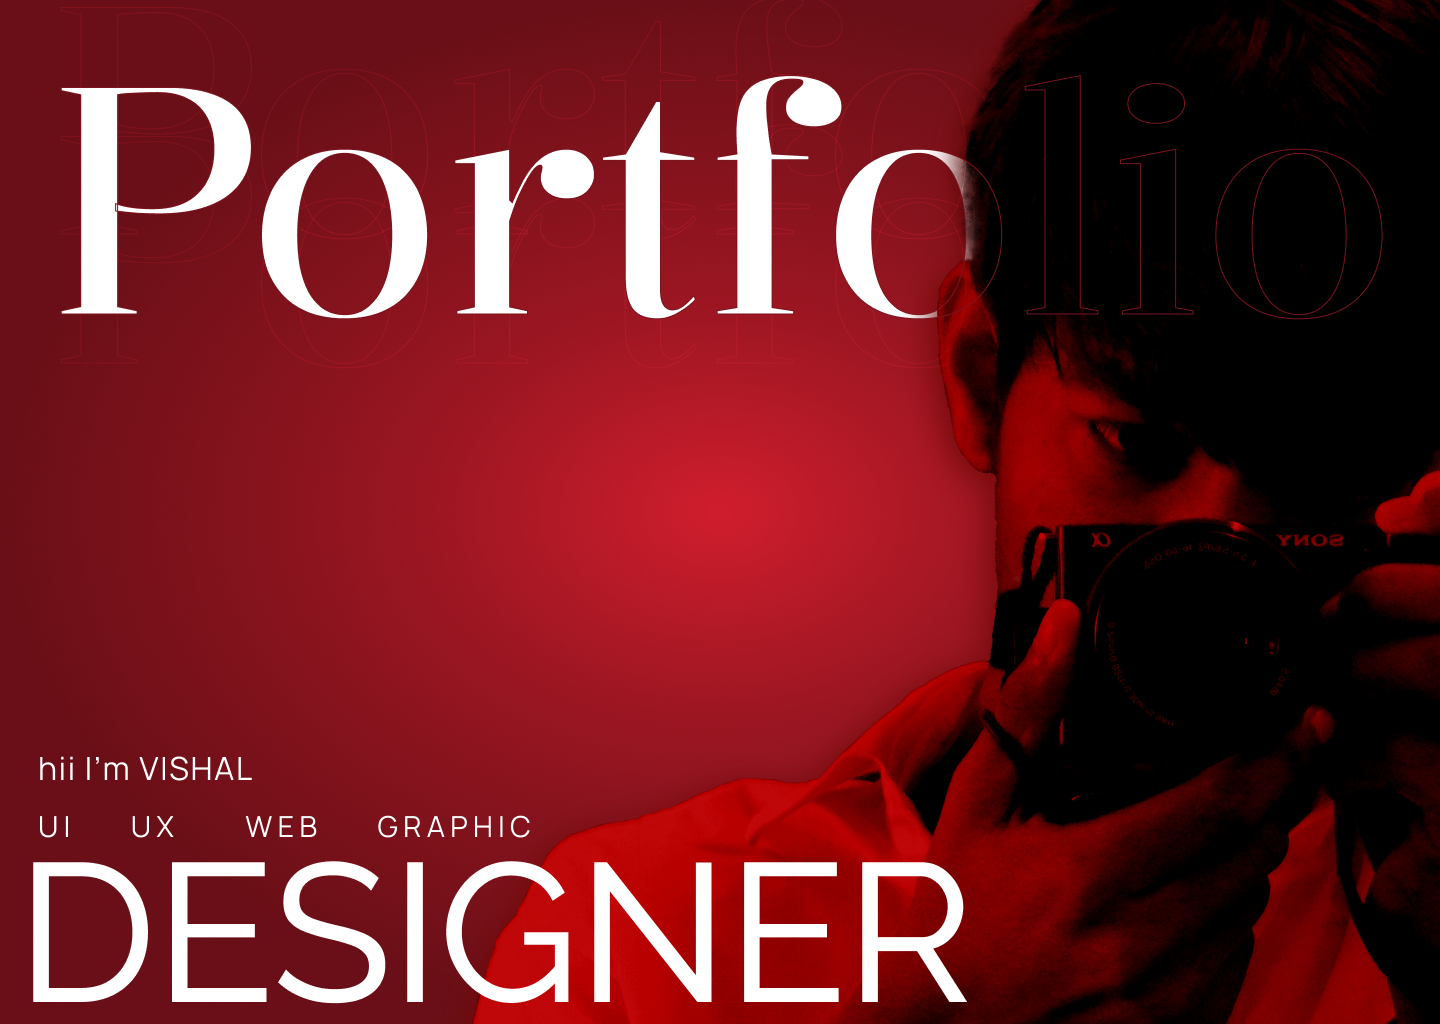
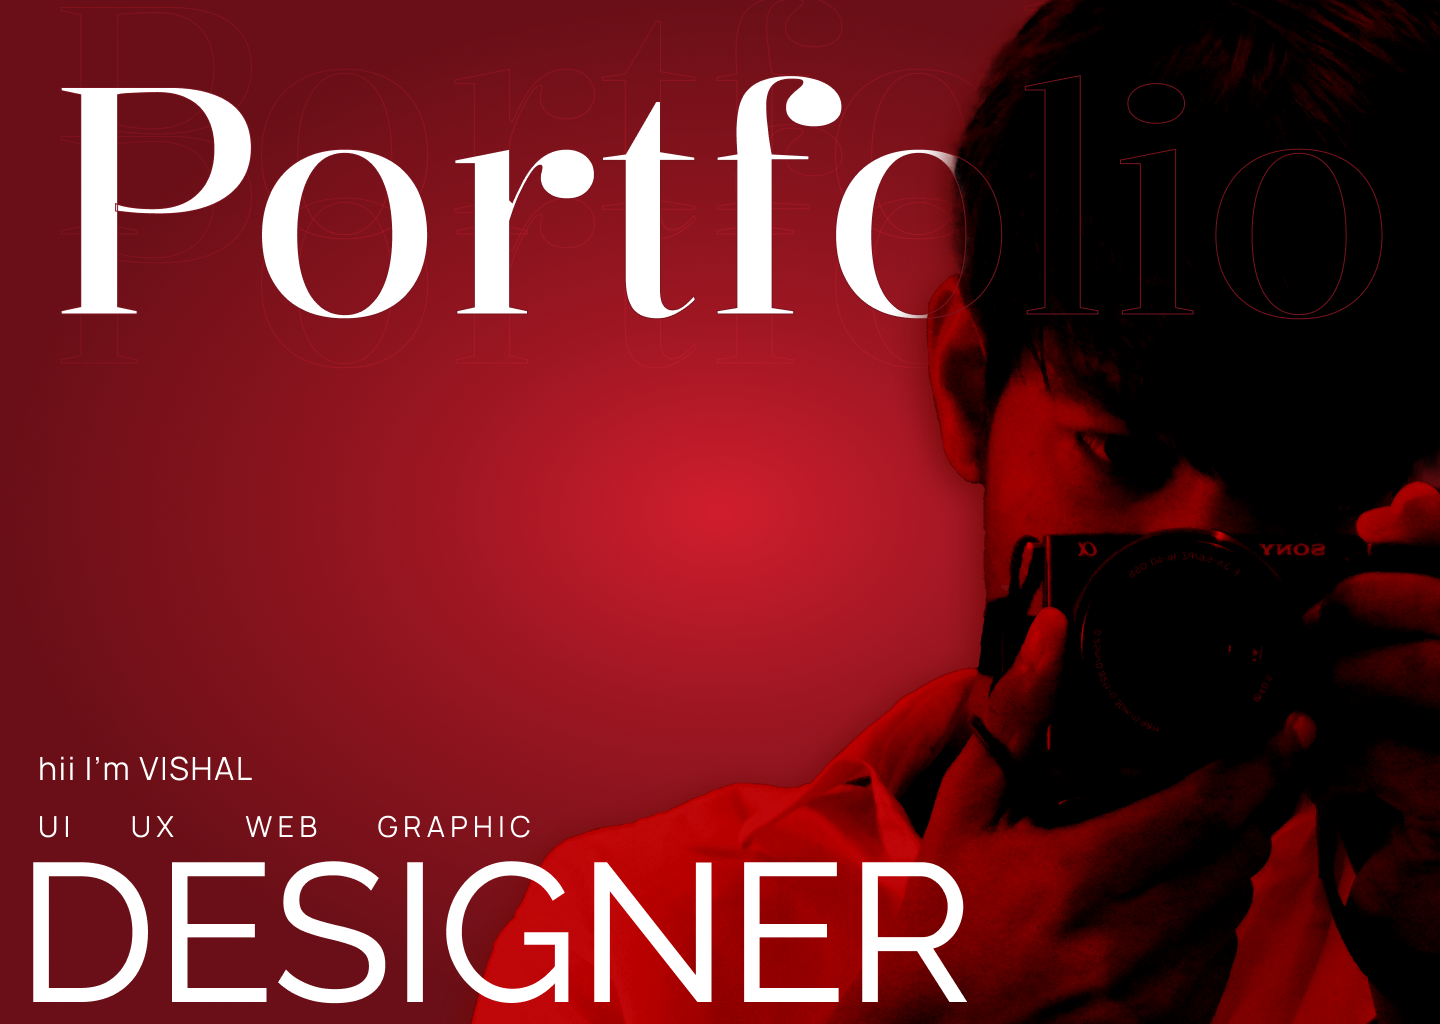
Update hero to 1440x1024 pixel-perfect layout

diff --git a/style.css b/style.css
@@ -1,154 +1,73 @@
-/* Reset / base */
-:root {
-    --white: #ffffff;
-    --overlay: rgba(0, 0, 0, 0.12);
-    --accent: #e04646;
-    --safe-padding: clamp(18px, 3.2vw, 48px);
-    --max-content-width: 1400px;
-}
-
+/* RESET */
 * {
-    box-sizing: border-box
+    margin: 0;
+    padding: 0;
+    box-sizing: border-box;
 }
 
+/* FULL PAGE */
 html,
 body {
-    height: 100%
-}
-
-body {
-    margin: 0;
-    font-family: "Manrope", system-ui, -apple-system, "Segoe UI", Roboto, "Helvetica Neue", Arial;
-    background: #071e1b;
-    /* fallback */
-    color: var(--white);
-    -webkit-font-smoothing: antialiased;
-    -moz-osx-font-smoothing: grayscale;
-}
-
-/* HERO full-bleed using your exported PNG background image.
-   The image is positioned to the right to match the Figma crop */
-.hero {
-    min-height: 100vh;
-    height: 100vh;
     width: 100%;
-    position: relative;
-    display: block;
-    background-image: url('images/hero-bg.png');
-    background-size: cover;
-    background-position: right center;
-    /* align to right so face/portfolio crop matches Figma */
-    background-repeat: no-repeat;
+    height: 100%;
     overflow: hidden;
+    background: #000;
 }
 
-/* subtle overlay (keeps white text readable on bright areas) */
-.hero-overlay {
-    position: absolute;
-    inset: 0;
-    background: linear-gradient(to left, rgba(0, 0, 0, 0.35) 10%, rgba(0, 0, 0, 0.15) 40%, rgba(0, 0, 0, 0.07) 70%, transparent 100%);
-    pointer-events: none;
+/* HERO FRAME — EXACT FIGMA SIZE */
+.hero {
+    position: relative;
+    width: 1440px;
+    height: 1024px;
+
+    background-image: url("images/hero-bg.png");
+    background-size: cover;
+    background-position: center;
+    background-repeat: no-repeat;
+
+    margin: 0 auto;
 }
 
-/* Foreground content container */
-.hero-content {
-    position: absolute;
-    left: var(--safe-padding);
-    bottom: clamp(46px, 8vh, 120px);
-    /* placed near the bottom-left like Figma */
-    max-width: clamp(320px, 42vw, 720px);
-    z-index: 2;
-    transform: translateY(0);
-}
-
-/* Intro small */
+/* hii I'm VISHAL */
 .intro {
-    margin: 0 0 .6rem 0;
-    font-size: clamp(14px, 1.3vw, 22px);
-    font-weight: 300;
-    color: var(--white);
-    letter-spacing: 0.6px;
+    position: absolute;
+    left: 44px;
+    /* Figma X */
+    top: 746px;
+    /* Figma Y */
+
+    font-family: 'Manrope', sans-serif;
+    font-size: 32px;
+    color: #ffffff;
+    letter-spacing: 5%;
 }
 
-/* roles */
+.intro span {
+    font-weight: 600;
+}
+
+/* UI UX WEB GRAPHIC */
 .roles {
-    display: flex;
-    gap: clamp(12px, 1.6vw, 28px);
-    margin: .6rem 0 1.2rem 0;
-    align-items: center;
-    font-family: "Raleway", "Manrope", sans-serif;
+    position: absolute;
+    left: 44px;
+    top: 790px;
+
+    font-family: 'Manrope', sans-serif;
+    font-size: 29px;
+    letter-spacing: 18%;
+    color: #ffffff;
+}
+
+/* DESIGNER TEXT */
+.designer {
+    position: absolute;
+    left: 17px;
+    top: 897px;
+
+    font-family: 'Raleway', sans-serif;
+    font-size: 194px;
     font-weight: 400;
-    font-size: clamp(12px, 1.3vw, 18px);
-    letter-spacing: 6px;
-    text-transform: uppercase;
-    color: var(--white);
-    opacity: 0.95;
-}
 
-/* big designer title — keep large and responsive */
-.title-designer {
-    margin: 0;
-    font-family: "Raleway", "Manrope", serif;
-    font-weight: 300;
-    color: var(--white);
-    line-height: 0.9;
-    font-size: clamp(72px, 18vw, 320px);
-    /* scales to fill left area; respects the image layout */
-    letter-spacing: 2px;
-    text-transform: uppercase;
-    -webkit-font-smoothing: antialiased;
-}
-
-/* small contact */
-.contact {
-    margin-top: .8rem;
-    font-size: 13px;
-    color: rgba(255, 255, 255, 0.9);
-}
-
-.contact a {
-    color: inherit;
-    text-decoration: none;
-    border-bottom: 1px solid rgba(255, 255, 255, 0.08);
-    padding-bottom: 2px;
-}
-
-/* Accessibility & responsiveness notes */
-@media (max-width: 900px) {
-    .hero-content {
-        left: clamp(18px, 4vw, 28px);
-        bottom: clamp(36px, 6vh, 70px);
-        max-width: 70vw;
-    }
-
-    .title-designer {
-        font-size: clamp(48px, 16vw, 160px);
-    }
-
-    .roles {
-        gap: 12px;
-        letter-spacing: 4px;
-    }
-}
-
-@media (max-width: 480px) {
-    .hero {
-        background-position: center center;
-    }
-
-    .title-designer {
-        font-size: clamp(40px, 22vw, 90px);
-    }
-
-    .intro {
-        font-size: 14px;
-    }
-
-    .roles {
-        display: grid;
-        grid-auto-flow: column;
-        gap: 10px;
-        font-size: 12px;
-        letter-spacing: 3px;
-    }
+    color: #ffffff;
+    line-height: 1;
 }

diff --git a/index.html b/index.html
@@ -1,44 +1,31 @@
-<!doctype html>
+<!DOCTYPE html>
 <html lang="en">
 
 <head>
-    <meta charset="utf-8" />
-    <meta name="viewport" content="width=device-width,initial-scale=1" />
-    <title>Vishal — Portfolio</title>
-
-    <!-- Fonts used for the foreground text -->
-    <link
-        href="https://fonts.googleapis.com/css2?family=Manrope:wght@300;400;700&family=Raleway:wght@300;400;700&display=swap"
-        rel="stylesheet">
-
-    <!-- Main stylesheet -->
-    <link rel="stylesheet" href="style.css">
+    <meta charset="UTF-8" />
+    <meta name="viewport" content="width=device-width, initial-scale=1.0" />
+    <title>Vishal Kumar | Portfolio</title>
+    <link rel="stylesheet" href="style.css" />
 </head>
 
 <body>
-    <!-- HERO (image contains the large "Portfolio" layout from Figma) -->
-    <main class="hero" role="main" aria-label="Hero">
-        <div class="hero-overlay" aria-hidden="true"></div>
 
-        <!-- foreground content that sits on top of hero-bg.png -->
-        <div class="hero-content" role="region" aria-label="Intro">
-            <p class="intro">hii I'm <strong>VISHAL</strong></p>
+    <section class="hero">
 
-            <nav class="roles" aria-label="Roles">
-                <span>UI</span>
-                <span>UX</span>
-                <span>WEB</span>
-                <span>GRAPHIC</span>
-            </nav>
-
-            <h1 class="title-designer">DESIGNER</h1>
-
-            <!-- optional contact line (small) -->
-            <p class="contact"><a href="mailto:kumarvishal1627@gmail.com">kumarvishal1627@gmail.com</a></p>
+        <div class="intro">
+            hii I'm <span>VISHAL</span>
         </div>
-    </main>
 
-    <script src="script.js"></script>
+        <div class="roles">
+            UI&nbsp;&nbsp;UX&nbsp;&nbsp;WEB&nbsp;&nbsp;GRAPHIC
+        </div>
+
+        <div class="designer">
+            DESIGNER
+        </div>
+
+    </section>
+
 </body>
 
 </html>

diff --git a/script.js b/script.js
@@ -1,5 +1,1 @@
-// Minimal script file (keeps page ready for future interactions)
-// Currently no dynamic behavior required; placeholder only.
-document.addEventListener('DOMContentLoaded', function () {
-    // placeholder for future toggles/animations
-});
+// no JS needed for static hero
